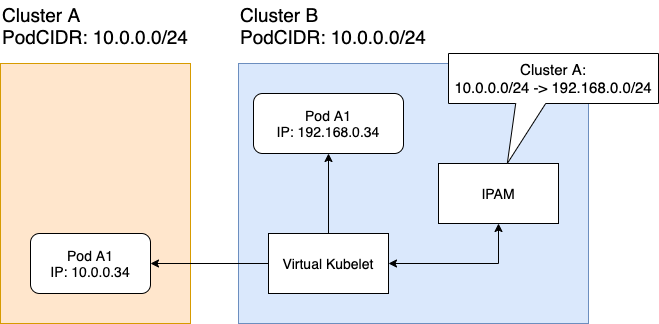
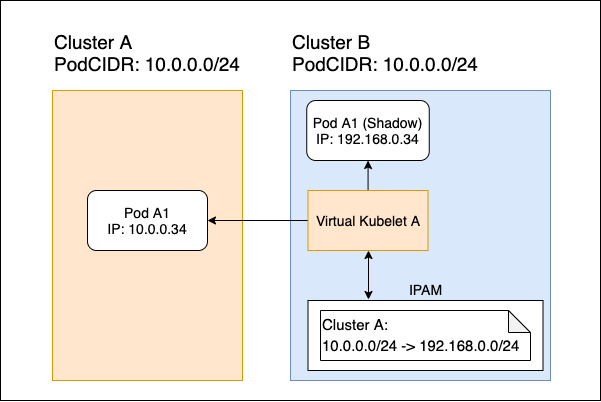
IPAM documentation
This PR documents how addresses of reflected endpoints are translated by the IPAM module.

diff --git a/docs/pages/concepts/networking/components/network-manager.md b/docs/pages/concepts/networking/components/network-manager.md
@@ -3,7 +3,9 @@ title:  Network Manager and IPAM
 weight: 1
 ---
 
-The **Liqo Network Manager** is one of the Liqo components in charge of enabling peered clusters to communicate one to another, handling the creation of the `networkconfigs.net.liqo.io` custom resources that will be sent to remote clusters.
+### Network Manager
+
+The Liqo Network Manager is one of the Liqo components in charge of enabling peered clusters to communicate one to another, handling the creation of the `networkconfigs.net.liqo.io` custom resources that will be sent to remote clusters.
 Those special resources contain the network configuration of the home cluster: the PodCIDR, for example, is one of the fields of the Spec section of the resource.
 
 {{% notice info %}}
@@ -97,7 +99,7 @@ If the CNI of cluster A assigns IP address 10.0.0.34 to Pod A1, the VK(A) runnin
 The Shadow Pod is a local copy of the Pod resource that is created and kept up to date by Liqo when offloading a Pod.
 {{% /notice %}}
 
-![Example IP addresses translation when offloading a Pod](../../../../images/liqonet/offloaded-pod-ip.png)
+![IP addresses translation when offloading a Pod](../../../../images/liqonet/offloaded-pod-ip.png)
 
 In this particular example, while pod A1 has IP 10.0.0.34, its shadow copy (in cluster B) will have IP 192.168.0.34.
 Since the IPAM module keeps track of how remote networks have been remapped by the home cluster (see [Networks management](#networks-management)), it can take care of the translation of addresses.
@@ -111,27 +113,39 @@ The IPAM module achieves this task by keeping track of how foreign clusters have
 
 
 #### Reflection
-The [Reflection](../../../offloading/features/api-reflection#Overview) is one of the most relevant Liqo features, which is carried out by the VK and deals with the replication of local Kubernetes resources on foreign clusters, in particular _Services_ and _Endpoints_.
+The [Reflection](../../../offloading/features/api-reflection#Overview) is one of the most relevant Liqo features; is carried out by the Virtual Kubelet and deals with the replication of local Kubernetes resources on foreign clusters, in particular _Services_ and _Endpoints_.
+
+{{% notice note %}}
+After having offloaded a workload, the Virtual Kubelet takes also care of creating the Shadow Pod locally and keeping it updated by inspecting its remote counterpart. During the reflection of an Endpoint instead, the Virtual Kubelet creates the resource on the foreign cluster.
+{{% /notice %}}
 
 In general, Endpoints that are going to be reflected can live either on:
-1. The local cluster, this is the case of Pods running on the home cluster.
-2. Elsewhere, such as a Pod not running on the home cluster or on the cluster the reflection is going to happen, but in a third one.
+1. The local cluster, this is the case of Pods running on the home cluster and possibly offloaded.
+2. Elsewhere, such as Pods not running on the home cluster or on the cluster the reflection is going to happen, but in a third one.
 
-In both cases, the IPAM module plays a decisive role, as it is in charge of translating IP addresses of reflected Endpoints.
+In both cases, the IPAM module plays a decisive role, as it is in charge of translating IP addresses of reflected Endpoints. Those IPs will be provided to the Virtual Kubelet, that in turn will reflect adjusted Endpoints.
 
 ##### Reflection of local Endpoints
-Similarly to what has been described in the [Translation of offloaded Pods](#ip-addresses-translation-of-offloaded-pods) Section, when crossing the 
-{{% notice note %}}
-This documentation section is a work in progress
-{{% /notice %}}
+As mentioned in the [Translation of offloaded Pods](#ip-addresses-translation-of-offloaded-pods) Section, even if two clusters have established a Liqo peering, IP addresses that are valid in one of them could have no meaning in the other, therefore an address translation need to be carried out somewhere. Endpoint IP addresses are not an exception: if an Endpoint resource represents a Pod running locally, just replicating the resource on a foreign cluster is not enough to make it available to remote Pods because the IP address specified in the resource could have no validity in the foreign cluster.
+
+If the remote cluster has not remapped the local PodCIDR, the IPAM module performs no translations, returning to the Virtual Kubelet the original Endpoint address. Conversely, if the address space used for assigning addresses to local Pods creates conflicts in the remote cluster and therefore has been remapped, the IPAM uses (1) the original Endpoint IP and (2) the new address space used to remap the local PodCIDR to carry out the translation of the address.
 
 ##### Reflection of external Endpoints
-{{% notice note %}}
-This documentation section is a work in progress
-{{% /notice %}}
-Thus, the External CIDR network is used whenever the home cluster has to expose on a foreign cluster an external resource (such as a Pod living on a third cluster).
+The address translation of local Endpoints can be carried out thanks to the fact the local IPAM knows if and how the local PodCIDR has been remapped in the cluster the reflection is going to take place. The problem of reflecting on cluster _X_ an Endpoint running on cluster _Y_ is way harder, if the home cluster is not _X_ or _Y_. The root problems are the following:
+1. Cluster _X_ and cluster _Y_ may not have a Liqo peering, thus their Pods could not be able to talk each other.
+2. Even if such a peering existed, the home cluster would not have any information about the network interconnection between _X_ and _Y_. In other words, the local cluster would not be aware of how _X_ could have remapped the PodCIDR of _Y_.
 
-It is worth to point out that traffic toward External CIDR passes through the cluster that has reflected the external resource before reaching its final destination (_hub and spoke_ topology such as A <--> B <--> C, where B offloaded Pods in both A and C, and a Pod in A has to contact a Pod in C).
-This means that the cluster that reflects a Pod using its External CIDR receives the data-plane traffic directed to that Pod, which has to be further redirected in the third cluster to reach the actual Pod.
-This is achieved thanks to the `natmappings.net.liqo.io` resource, which is populated by the IPAM (in Cluster B) with the associations between the Pod IP addresses and the associated External CIDR addresses.
+The current solution the issue is based on the usage of an additional network, called _ExternalCIDR_. Its name comes from the fact that addresses belonging to this network are assigned to external (= non-local) Endpoints that are going to be reflected on a foreign cluster. Each Liqo cluster has its own ExternalCIDR address space and the latter can be remapped by peered clusters, just like the PodCIDR.
+
+Whenever the IPAM receives an Endpoint address translation request by the Virtual Kubelet and the address does not belong to the local PodCIDR, the IPAM module allocates an IP from the ExternalCIDR address space and returns it to the Virtual Kubelet. The ExternalCIDR address could be further altered if the remote cluster have remapped the local ExternalCIDR. That's not all: the IPAM stores the associations between Endpoint addresses and ExternalCIDR addresses so that future address translation requests on the same Endpoint address will use the same ExternalCIDR address, even if the cluster in which the reflection is going to happen is different.
+
+Suppose cluster B has a Liqo peering with clusters A and C, therefore it is able to offload Pods on them. However, clusters A and C do not have an active peering, thus their Pods cannot connect one to another. Furthermore, assume that B wants to reflect Service A in cluster A. The Service exposes the Shadow Pod C1 whose remote counterpart lives in C with IP address 10.1.0.5. In this particular case, if the IPAM did not translated the address of the Endpoint, Pods in A would not be able to reach Service A because they do not know how to connect to network 10.1.0.0/24 (and therefore to Pods in C), they are only capable to reach Pods in A, as depicted in the IPAM block of cluster A.
+
+![External Endpoint address translation](../../../../images/liqonet/externalcidr-reflection.png)
+
+In this example, the Virtual Kubelet asks the IPAM module for an Endpoint address translation. The IPAM notices the received address does not belong to the local PodCIDR 10.0.0.0/24 and therefore allocates a new address from the ExternalCIDR network, in this case 192.168.0.45. The IPAM stores the association between addresses and returns 192.168.0.45 to the Virtual Kubelet, that in turn completes the reflection.
+
+It is worth to point out that traffic toward ExternalCIDR passes through the cluster that has reflected the external resource before reaching its final destination (it is an _Hub and Spoke_ topology such as A <--> B <--> C, where B offloaded Pods in both A and C, and a Pod in A has to contact a Pod in C).
+This means that the cluster that reflects a Pod using its ExternalCIDR receives the data-plane traffic directed to that Pod, which has to be further redirected in the third cluster to reach the actual Pod.
+This is achieved thanks to the `natmappings.net.liqo.io` resource, which is populated by the IPAM (in Cluster B) with the associations between the Pod IP addresses and the associated ExternalCIDR addresses.
 This resource is reconciled by the [Tunnel Operator](../gateway#tunnel-operator) that adds the proper NAT rules.
